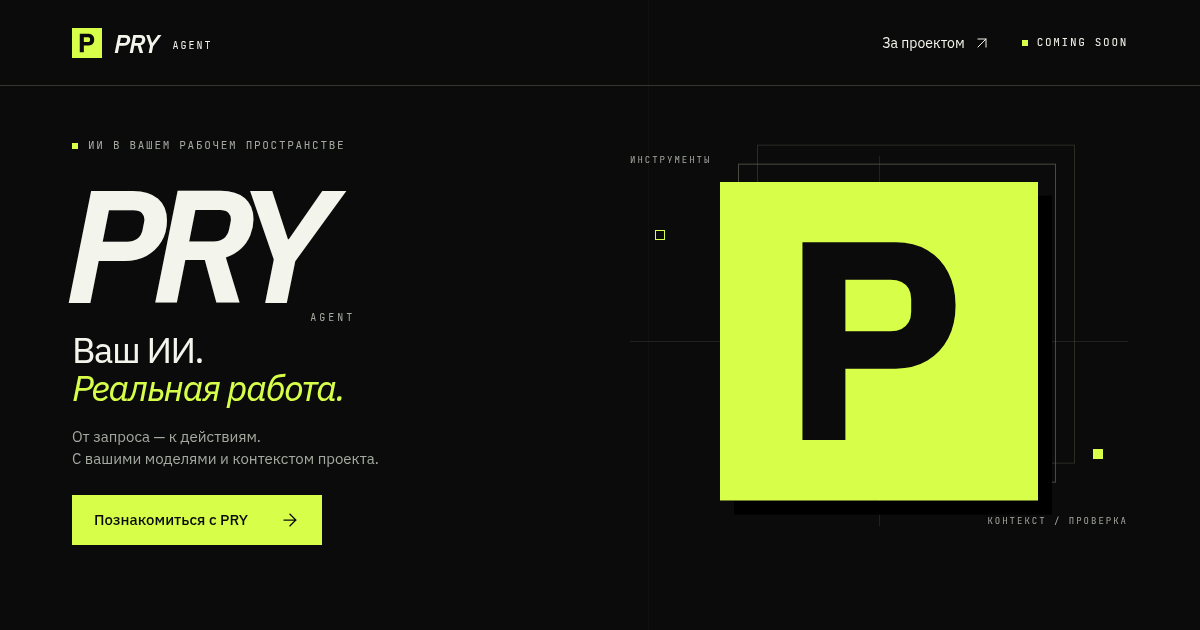
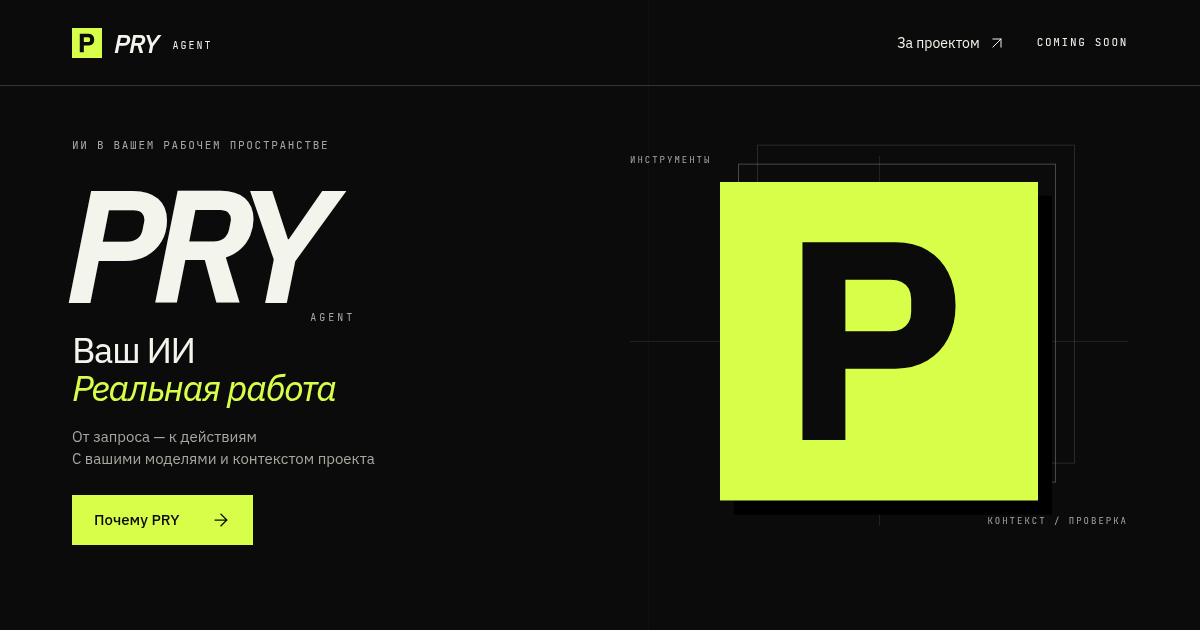
Explain why PRY helps before introducing its individual tools
Lead from the hero into four practical benefits: model choice, project memory,
independent checks and recoverable file history. Link each benefit to the product
story and keep the six-scene navigation accessible on narrow screens.
Remove display full stops and decorative point markers as requested.

Constraint: Claims must match implemented capabilities without invented comparisons
Confidence: high
Scope-risk: narrow
Tested: 69 Chromium viewport and panel layouts, wheel, touch, keyboard, links, reduced motion and no-JS fallback
Tested: Desktop and mobile visual inspection and JavaScript syntax
Not-tested: Physical mobile devices

Changed region(s): [[0.0925, 0.7841, 0.2775, 0.8746], [0.0617, 0.2111, 0.2775, 0.2413], [0.74, 0.0603, 0.8325, 0.0905]]

diff --git a/styles.css b/styles.css
@@ -19,7 +19,7 @@ svg use{fill:none;stroke:currentColor;stroke-width:1.5;stroke-linecap:square;str
 .site-header{position:fixed;inset:0 0 auto;z-index:40;height:86px;padding:0 var(--pad);display:flex;align-items:center;justify-content:space-between;border-bottom:1px solid var(--line);transition:color 500ms, border-color 500ms}
 .wordmark{display:inline-flex;align-items:center;gap:12px;min-height:44px}.wordmark>span{font-size:26px;font-style:italic;font-weight:550;letter-spacing:-1px}.wordmark small{font-family:var(--mono);font-style:normal;font-size:10px;font-weight:400;letter-spacing:2px;margin-left:9px;vertical-align:middle}
 .header-right{display:flex;gap:32px;align-items:center}.header-link{display:flex;gap:9px;align-items:center;font-size:14px;min-height:44px}.header-link svg{width:16px;height:16px;transition:transform 180ms}.header-link:hover svg{transform:translate(2px,-2px)}
-.soon-tag{font:11px/1 var(--mono);letter-spacing:1.7px;display:flex;gap:9px;align-items:center;white-space:nowrap}.soon-tag i{width:6px;height:6px;background:var(--accent)}
+.soon-tag{font:11px/1 var(--mono);letter-spacing:1.7px;display:flex;gap:9px;align-items:center;white-space:nowrap}
 .icon-button{width:46px;height:46px;display:grid;place-items:center;border:1px solid var(--line);transition:background 180ms,color 180ms,border-color 180ms}.icon-button svg{width:19px;height:19px}.icon-button:hover:not(:disabled){color:var(--bg);background:var(--accent);border-color:var(--accent)}.motion-toggle{border-color:transparent}
 .scene{position:relative;min-height:100svh;overflow:hidden;background:var(--bg)}
 .enhanced main{position:fixed;inset:0}.enhanced .scene{position:absolute;inset:0;min-height:0;height:100%;visibility:hidden;pointer-events:none;overflow:auto;scrollbar-width:thin;scrollbar-color:var(--line) transparent;overscroll-behavior:contain}
@@ -27,7 +27,7 @@ svg use{fill:none;stroke:currentColor;stroke-width:1.5;stroke-linecap:square;str
 [hidden]{display:none!important}
 .scene::before{content:"";position:absolute;top:0;bottom:0;left:54%;width:1px;background:#ffffff06;pointer-events:none}
 .scene-grid{min-height:100svh;padding:118px var(--pad) 116px;display:grid;grid-template-columns:1fr 1fr;gap:clamp(36px,5vw,110px);align-items:center}.enhanced .scene-grid{min-height:100%;height:100%}
-.copy{position:relative;z-index:2;max-width:650px}.eyebrow{display:flex;align-items:center;gap:10px;font:11px/1.5 var(--mono);letter-spacing:1.7px;text-transform:uppercase;color:var(--muted);margin-bottom:34px}.tiny-square{display:inline-block;flex:0 0 auto;width:6px;height:6px;background:var(--accent)}
+.copy{position:relative;z-index:2;max-width:650px}.eyebrow{display:flex;align-items:center;gap:10px;font:11px/1.5 var(--mono);letter-spacing:1.7px;text-transform:uppercase;color:var(--muted);margin-bottom:34px}
 .hero-name{position:relative;display:table;font-size:clamp(130px,16vw,240px);font-style:italic;font-weight:650;letter-spacing:-.09em;line-height:.82;padding-right:.11em;margin-left:-.045em;margin-bottom:29px}.hero-name>span{position:absolute;right:0;bottom:2px;font:10px/1 var(--mono);letter-spacing:3px;color:var(--muted);transform:translate(18px,16px)}
 .hero-promise{font-size:clamp(30px,3.1vw,54px);font-weight:420;line-height:1.05;letter-spacing:-.04em;margin-bottom:24px}
 .description{font-size:clamp(16px,1.25vw,20px);line-height:1.6;font-weight:400;color:var(--muted);max-width:480px;text-wrap:pretty}
@@ -38,21 +38,21 @@ svg use{fill:none;stroke:currentColor;stroke-width:1.5;stroke-linecap:square;str
 .edge-note{position:absolute;bottom:128px;right:var(--pad);writing-mode:vertical-rl;font:9px/1 var(--mono);letter-spacing:2px;color:#757b6e}
 .hero-visual{perspective:1000px;isolation:isolate}.hero-axis{position:absolute;background:var(--line);opacity:.55}.axis-x{left:0;right:0;top:50%;height:1px}.axis-y{top:0;bottom:0;left:50%;width:1px}.coordinate{position:absolute;font:9px/1 var(--mono);letter-spacing:2px;color:var(--muted)}.coordinate.top{left:0;top:0}.coordinate.bottom{bottom:0;right:0}
 .engine-plane{position:absolute;width:64%;aspect-ratio:1;left:18%;top:50%;transform:translateY(-50%);border:1px solid #707765}.plane-back{transform:translate(37px,calc(-50% - 37px));opacity:.3}.plane-mid{transform:translate(18px,calc(-50% - 18px));opacity:.6}.plane-front{border:0;box-shadow:14px 14px 0 #000}.plane-front img{display:block;width:100%;height:100%}
-.orbit-square{position:absolute;border:1px solid var(--accent);width:10px;height:10px;z-index:3}.orbit-one{left:5%;top:20%}.orbit-two{right:5%;bottom:18%;background:var(--accent)}
+
 .engine-caption{position:absolute;bottom:6%;left:7%;display:flex;align-items:center;gap:10px;font:11px/1.5 var(--mono);color:var(--muted);background:var(--bg);padding:10px 12px}
-body[data-motion=on] .is-current .plane-back{animation:back-plane 7s ease-in-out infinite alternate}body[data-motion=on] .is-current .plane-mid{animation:mid-plane 7s ease-in-out infinite alternate}body[data-motion=on] .is-current .orbit-one{animation:marker-one 8s ease-in-out infinite alternate}body[data-motion=on] .is-current .orbit-two{animation:marker-two 9s ease-in-out infinite alternate}
-@keyframes back-plane{to{transform:translate(52px,calc(-50% - 52px))}}@keyframes mid-plane{to{transform:translate(27px,calc(-50% - 27px))}}@keyframes marker-one{to{transform:translateY(110px)}}@keyframes marker-two{to{transform:translateY(-90px)}}
+body[data-motion=on] .is-current .plane-back{animation:back-plane 7s ease-in-out infinite alternate}body[data-motion=on] .is-current .plane-mid{animation:mid-plane 7s ease-in-out infinite alternate}
+@keyframes back-plane{to{transform:translate(52px,calc(-50% - 52px))}}@keyframes mid-plane{to{transform:translate(27px,calc(-50% - 27px))}}
 .model-paths,.brain-lines{position:absolute;inset:10% 0 0;width:100%;height:84%;fill:none;stroke:var(--line);stroke-width:1}.signal-path{stroke:var(--accent);stroke-width:1.5;stroke-dasharray:36 380}.signal-path.second{stroke-dasharray:25 420;animation-delay:-2s!important}body[data-motion=on] .is-current .signal-path{animation:signal 8s linear infinite}@keyframes signal{to{stroke-dashoffset:-832}}
 .model-center{position:absolute;left:50%;top:52%;transform:translate(-50%,-50%);width:90px;height:90px;box-shadow:0 0 0 12px var(--bg)}.model-center img{width:100%;height:100%}
 .model-choice{position:absolute;width:38%;text-align:left;padding:14px 16px 13px;border:1px solid var(--line);background:var(--bg);font-size:clamp(21px,2.25vw,34px);font-style:italic;letter-spacing:-1px;line-height:1.1;transition:color 220ms,border-color 220ms,transform 220ms}.model-choice small{display:block;margin-bottom:11px;font:9px/1 var(--mono);letter-spacing:1.5px;color:var(--muted)}.model-choice>span{position:absolute;right:14px;bottom:16px;font-size:21px;opacity:0;transition:opacity 180ms}.model-choice:hover{border-color:var(--muted);transform:translateY(-3px)}.model-choice.selected{border-color:var(--accent);color:var(--accent)}.model-choice.selected>span{opacity:1}.model-openai{left:0;top:17%}.model-gemini{right:0;top:17%}.model-claude{left:0;bottom:17%}.model-ollama{right:0;bottom:17%}
 .model-caption{position:absolute;bottom:4%;left:0;right:0;display:flex;gap:14px;align-items:center;justify-content:center;font:11px/1.4 var(--mono)}.model-caption span:first-child{color:var(--accent)}.model-caption span:last-child{color:var(--muted)}.visual-footnote{position:absolute;bottom:-14px;left:0;right:0;text-align:center;font-size:11px;color:var(--muted)}
-.brain-lines{inset:6% 0 auto;height:84%}.small-nodes{fill:#8a9281;stroke:none}.brain-core{position:absolute;top:47%;left:50%;width:120px;height:112px;transform:translate(-50%,-50%);display:grid;align-content:center;text-align:center;background:var(--accent);color:var(--bg);box-shadow:0 0 0 13px var(--bg)}.brain-core>span{font-size:45px;line-height:1;font-weight:600;font-style:italic;letter-spacing:-3px}.brain-core>small{font:10px/1 var(--mono);letter-spacing:2px;margin-top:13px}.brain-node{position:absolute;display:flex;flex-direction:column;gap:9px;background:var(--bg);padding:9px 14px}.brain-node i{width:8px;height:8px;border:1px solid var(--accent)}.brain-node>span{font-size:18px}.brain-node>small{font:8px/1 var(--mono);color:var(--muted);letter-spacing:.7px}.node-code{left:4%;top:15%}.node-decisions{right:13%;top:12%}.node-sources{right:0;top:43%}.node-tasks{right:18%;bottom:16%}.node-history{left:0;bottom:23%}.memory-caption{position:absolute;left:0;bottom:0;color:var(--muted);font-size:12px;line-height:1.6}.memory-caption strong{font-weight:400;color:var(--ink)}
-.work-visual{height:auto;min-height:0;border:1px solid #505649;background:#11120f;box-shadow:12px 12px 0 #000;align-self:center}.workbench-header{padding:18px 20px;border-bottom:1px solid var(--line);display:flex;align-items:center;justify-content:space-between;gap:10px;font:10px/1.4 var(--mono);letter-spacing:1px}.workbench-header>span{display:flex;align-items:center;gap:8px}.workbench-header small{color:var(--muted);font-size:8px;letter-spacing:.5px}.workbench-task{padding:30px 24px;display:flex;gap:12px;align-items:center}.task-square{width:7px;height:7px;border:1px solid var(--accent)}.workbench-task small{font:9px/1 var(--mono);letter-spacing:2px;color:var(--muted)}.workbench-task p{margin-top:9px;font-size:19px;font-style:italic}.work-tabs{display:flex;border-block:1px solid var(--line)}.work-tabs button{flex:1;min-height:47px;font:10px/1 var(--mono);padding:10px 4px;border-right:1px solid var(--line);color:var(--muted);transition:background 180ms,color 180ms}.work-tabs button:last-child{border:0}.work-tabs button[aria-selected=true]{background:var(--accent);color:var(--bg)}.work-tabs button:hover:not([aria-selected=true]){color:var(--ink);background:#ffffff08}
+.brain-lines{inset:6% 0 auto;height:84%}.brain-core{position:absolute;top:47%;left:50%;width:120px;height:112px;transform:translate(-50%,-50%);display:grid;align-content:center;text-align:center;background:var(--accent);color:var(--bg);box-shadow:0 0 0 13px var(--bg)}.brain-core>span{font-size:45px;line-height:1;font-weight:600;font-style:italic;letter-spacing:-3px}.brain-core>small{font:10px/1 var(--mono);letter-spacing:2px;margin-top:13px}.brain-node{position:absolute;display:flex;flex-direction:column;gap:9px;background:var(--bg);padding:9px 14px}.brain-node>span{font-size:18px}.brain-node>small{font:8px/1 var(--mono);color:var(--muted);letter-spacing:.7px}.node-code{left:4%;top:15%}.node-decisions{right:13%;top:12%}.node-sources{right:0;top:43%}.node-tasks{right:18%;bottom:16%}.node-history{left:0;bottom:23%}.memory-caption{position:absolute;left:0;bottom:0;color:var(--muted);font-size:12px;line-height:1.6}.memory-caption strong{font-weight:400;color:var(--ink)}
+.work-visual{height:auto;min-height:0;border:1px solid #505649;background:#11120f;box-shadow:12px 12px 0 #000;align-self:center}.workbench-header{padding:18px 20px;border-bottom:1px solid var(--line);display:flex;align-items:center;justify-content:space-between;gap:10px;font:10px/1.4 var(--mono);letter-spacing:1px}.workbench-header>span{display:flex;align-items:center;gap:8px}.workbench-header small{color:var(--muted);font-size:8px;letter-spacing:.5px}.workbench-task{padding:30px 24px;display:flex;gap:12px;align-items:center}.workbench-task small{font:9px/1 var(--mono);letter-spacing:2px;color:var(--muted)}.workbench-task p{margin-top:9px;font-size:19px;font-style:italic}.work-tabs{display:flex;border-block:1px solid var(--line)}.work-tabs button{flex:1;min-height:47px;font:10px/1 var(--mono);padding:10px 4px;border-right:1px solid var(--line);color:var(--muted);transition:background 180ms,color 180ms}.work-tabs button:last-child{border:0}.work-tabs button[aria-selected=true]{background:var(--accent);color:var(--bg)}.work-tabs button:hover:not([aria-selected=true]){color:var(--ink);background:#ffffff08}
 .work-panel{height:228px;padding:23px 22px}.panel-label{font-size:13px;color:var(--muted);margin-bottom:22px}.file-row{padding:13px 0;display:grid;grid-template-columns:20px 1fr auto;gap:10px;border-top:1px solid var(--line);font-size:12px;align-items:center}.file-row>span:first-child{font:9px/1 var(--mono);color:var(--muted)}.file-row>span:last-child{font-size:10px;color:var(--muted)}.file-row strong{font-weight:400}.diff-title{display:flex;justify-content:space-between;font:10px/1.5 var(--mono);padding-bottom:12px;border-bottom:1px solid var(--line)}.diff-title span:last-child{font-size:8px;color:var(--accent)}.diff{font:11px/1.8 var(--mono);margin:14px 0 0;white-space:pre-wrap;overflow-wrap:anywhere;color:var(--accent)}.diff-muted{color:var(--muted)}.check-line{display:flex;align-items:center;gap:12px;margin:16px 0;font-size:13px}.check-line svg{width:18px;height:18px;color:var(--accent)}.check-caption{font-size:12px;line-height:1.5;color:var(--muted);margin-top:20px}.workbench-footer{display:flex;gap:9px;align-items:center;padding:16px 22px;border-top:1px solid var(--line);font:9px/1.5 var(--mono);color:var(--muted)}
 .soon-scene{background:var(--accent);color:var(--bg)}.soon-scene::before{display:none}.soon-copy{position:relative;z-index:2;min-height:100svh;padding:120px var(--pad) 110px;display:flex;flex-direction:column;align-items:flex-start;justify-content:center}.enhanced .soon-copy{height:100%;min-height:0}.soon-copy .eyebrow{color:#495425;margin-bottom:26px}.coming-title{font-size:clamp(90px,12.5vw,210px);font-weight:550;font-style:italic;letter-spacing:-.075em;line-height:.83;padding-right:.1em}.coming-title>span{margin-left:15vw}.soon-description{font-size:clamp(18px,1.8vw,28px);line-height:1.35;font-weight:400;margin-top:36px}.dark{background:var(--bg);color:var(--accent);margin-top:28px}.dark:hover{box-shadow:5px 5px 0 #879e32}.soon-mark{position:absolute;right:-3%;top:50%;transform:translateY(-50%);font-style:italic;font-size:min(70vw,95vh);font-weight:600;line-height:1;color:transparent;-webkit-text-stroke:1px #647a23;opacity:.5;pointer-events:none}.soon-grid{position:absolute;inset:0;background-image:linear-gradient(#18200812 1px,transparent 1px),linear-gradient(90deg,#18200812 1px,transparent 1px);background-size:110px 110px}.soon-signature{position:absolute;right:var(--pad);bottom:128px;font:10px/1 var(--mono);letter-spacing:2px;writing-mode:vertical-rl}
 .site-footer{position:fixed;z-index:40;bottom:0;left:0;right:0;min-height:94px;padding:20px var(--pad) 26px;display:grid;grid-template-columns:1fr auto 1fr;align-items:center;gap:26px;transition:color 400ms}.scroll-hint{display:flex;align-items:center;gap:13px;color:var(--muted);font-size:11px}.hint-line{position:relative;display:block;width:20px;height:28px;border-left:1px solid var(--line)}.hint-line::after{content:"";position:absolute;left:-2px;top:3px;width:3px;height:8px;background:var(--accent)}body[data-motion=on] .hint-line::after{animation:hint 2s ease-in-out infinite}@keyframes hint{50%{transform:translateY(12px);opacity:.4}}
 .scene-nav{display:flex;gap:10px}.scene-nav a{width:44px;min-height:46px;display:flex;flex-direction:column;justify-content:center;gap:10px;color:#9b9f94;font:10px/1 var(--mono);transition:color 180ms}.scene-nav i{height:2px;width:100%;background:var(--line);position:relative}.scene-nav i::after{content:"";position:absolute;inset:0;background:var(--accent);transform:scaleX(0);transform-origin:left;transition:transform 400ms var(--ease)}.scene-nav a.current{color:var(--accent)}.scene-nav a.current i::after{transform:scaleX(1)}.scene-nav a:hover{color:var(--ink)}.scene-arrows{display:flex;gap:8px;justify-content:flex-end}.previous svg{transform:rotate(180deg)}
-body[data-scene=soon]{--ink:#10120a;--muted:#495425;--line:#798d36}.site-header,.site-footer{color:var(--ink)}body[data-scene=soon] .soon-tag i,body[data-scene=soon] .scene-nav i::after,body[data-scene=soon] .hint-line::after{background:#10120a}body[data-scene=soon] .scene-nav a{color:#465020}body[data-scene=soon] .scene-nav a.current{color:#10120a}body[data-scene=soon] .icon-button:hover:not(:disabled){background:#10120a;color:var(--accent);border-color:#10120a}body[data-scene=soon] :focus-visible{outline-color:#10120a}
+body[data-scene=soon]{--ink:#10120a;--muted:#495425;--line:#798d36}.site-header,.site-footer{color:var(--ink)}body[data-scene=soon] .scene-nav i::after,body[data-scene=soon] .hint-line::after{background:#10120a}body[data-scene=soon] .scene-nav a{color:#465020}body[data-scene=soon] .scene-nav a.current{color:#10120a}body[data-scene=soon] .icon-button:hover:not(:disabled){background:#10120a;color:var(--accent);border-color:#10120a}body[data-scene=soon] :focus-visible{outline-color:#10120a}
 @media(min-width:1700px){.scene-grid{gap:120px}.hero-visual{max-width:620px}.work-visual{max-width:620px}.visual-topline{font-size:11px}.workbench-header small{font-size:10px}.work-tabs button{font-size:12px}.work-panel{height:280px}.file-row{font-size:15px;padding:17px 0}.file-row>span:last-child{font-size:12px}.panel-label{font-size:15px}.diff{font-size:14px}.check-line{font-size:15px}}
 @media(min-width:761px) and (max-height:760px){.scene-grid{padding-top:100px;padding-bottom:94px}.hero-name{font-size:160px;margin-bottom:22px}.hero .eyebrow{margin-bottom:24px}.hero-promise{font-size:36px;margin-bottom:19px}.hero .description{font-size:15px;line-height:1.5}.hero .button{margin-top:24px;min-height:48px}.section-title{font-size:60px;margin-bottom:25px}.eyebrow{margin-bottom:24px}.side-caption{margin-top:22px;padding-top:18px}.visual{max-height:410px;min-height:290px}.workbench-task{padding:22px}.work-panel{height:190px}.workbench-header{padding:14px 18px}.coming-title{font-size:135px}.soon-copy{padding-top:105px;padding-bottom:95px}.soon-description{margin-top:26px}}
 @media(max-width:1100px){.header-right{gap:22px}.scene-grid{gap:30px}.visual{min-height:300px}.hero-name{font-size:16vw}.hero-promise{font-size:36px}.section-title{font-size:56px}.description{font-size:16px}.side-caption{margin-top:26px;padding-top:20px;font-size:13px}.eyebrow{font-size:9px;letter-spacing:1.3px}.workbench-header{padding:14px 12px;font-size:8px}.workbench-header small{font-size:7px}.workbench-task{padding:24px 16px}.workbench-task p{font-size:17px}.file-row{grid-template-columns:16px 1fr}.file-row>span:last-child{display:none}.work-tabs button{font-size:9px}.scroll-hint{font-size:10px}.edge-note{display:none}.brain-node>span{font-size:15px}.brain-node>small{font-size:7px}.brain-core{width:94px;height:90px}.brain-core>span{font-size:37px}}
@@ -76,3 +76,47 @@ body[data-scene=soon]{--ink:#10120a;--muted:#495425;--line:#798d36}.site-header,
 }
 body[data-motion=off] *,body[data-motion=off] *::before,body[data-motion=off] *::after{animation:none!important;transition:none!important}
 body[data-motion=off] .signal-path{stroke-dasharray:none}
+
+.benefits{list-style:none;padding:0;margin:0;width:100%}
+.benefit{border-top:1px solid var(--line)}
+.benefit:last-child{border-bottom:1px solid var(--line)}
+.benefit a{display:grid;grid-template-columns:28px 1fr 18px;gap:18px;padding:24px 0;align-items:start}
+.benefit-number{font:11px/1.5 var(--mono);color:var(--accent);padding-top:7px}
+.benefit h3{margin:0 0 8px;font-size:clamp(21px,1.9vw,30px);font-style:italic;font-weight:450;line-height:1.15;letter-spacing:-.035em}
+.benefit p{margin:0;max-width:440px;color:var(--muted);font-size:14px;line-height:1.5}
+.benefit svg{width:18px;height:18px;margin-top:7px;color:var(--muted);transition:transform 180ms,color 180ms}
+.benefit a:hover h3,.benefit a:hover svg{color:var(--accent)}
+.benefit a:hover svg{transform:translate(2px,-2px)}
+@media(min-width:761px) and (max-height:760px){.benefit a{padding:16px 0}.benefit h3{font-size:23px}.benefit p{font-size:13px}}
+@media(max-width:1100px){.why-scene .section-title{font-size:49px}.benefit a{gap:12px;grid-template-columns:22px 1fr 16px}.benefit h3{font-size:23px}}
+@media(max-width:760px){
+  .why-scene .scene-grid{grid-template-rows:auto auto;gap:24px}
+  .why-scene .section-title{font-size:40px}
+  .benefits{max-width:520px;align-self:start}
+  .benefit a{padding:17px 0;grid-template-columns:20px 1fr 16px;gap:10px}
+  .benefit h3{font-size:21px;margin-bottom:6px}
+  .benefit p{font-size:13px;line-height:1.4}
+  .benefit-number{font-size:9px;padding-top:4px}
+  .scene-nav{overflow-x:auto;scrollbar-width:none;min-width:0;max-width:none}
+  .scene-nav a{flex-shrink:0}
+}
+@media(max-width:760px) and (max-height:740px){
+  .why-scene .scene-grid{gap:18px}
+  .why-scene .section-title{font-size:34px;margin-bottom:0}
+  .why-scene .description{display:none}
+  .benefit a{padding:12px 0}
+  .benefit h3{font-size:19px}
+  .benefit p{font-size:12px}
+}
+@media(max-width:360px){.why-scene .section-title{font-size:33px}.benefit h3{font-size:18px}}
+@media(max-height:540px) and (min-width:761px){
+  .why-scene .scene-grid{grid-template-columns:.8fr 1.2fr;gap:28px}
+  .why-scene .section-title{font-size:34px;margin:0}
+  .why-scene .description{display:none}
+  .benefits{display:grid;grid-template-columns:repeat(2,minmax(0,1fr));gap:12px 18px}
+  .benefit a{display:block;padding:10px 0}
+  .benefit-number,.benefit svg{display:none}
+  .benefit h3{font-size:17px;margin-bottom:6px}
+  .benefit p{font-size:12px;line-height:1.4}
+  .benefit:last-child{border-bottom:0}
+}

diff --git a/index.html b/index.html
@@ -4,23 +4,23 @@
   <meta charset="utf-8">
   <meta name="viewport" content="width=device-width, initial-scale=1">
   <meta name="theme-color" content="#0b0b0b">
-  <meta name="description" content="PRY Agent — ваши модели, память проекта и работа, которую видно. Знакомьтесь с новым AI-пространством. Coming soon.">
-  <meta property="og:title" content="PRY Agent — ваш ИИ. Реальная работа.">
-  <meta property="og:description" content="Выбирайте модели. Сохраняйте контекст. Следите за действиями и проверяйте результат. COMING SOON.">
+  <meta name="description" content="PRY Agent — ваши модели, память проекта и работа, которую видно — Coming soon">
+  <meta property="og:title" content="PRY Agent — ваш ИИ, реальная работа">
+  <meta property="og:description" content="Выбирайте модели, сохраняйте контекст, следите за действиями и проверяйте результат — COMING SOON">
   <meta property="og:type" content="website">
   <meta property="og:locale" content="ru_RU">
   <meta property="og:url" content="https://pry-code.github.io/">
-  <meta property="og:image" content="https://pry-code.github.io/assets/social.png">
+  <meta property="og:image" content="https://pry-code.github.io/assets/social.png?v=2">
   <meta property="og:image:width" content="1200">
   <meta property="og:image:height" content="630">
-  <meta property="og:image:alt" content="PRY Agent. Ваш ИИ. Реальная работа. Coming soon.">
+  <meta property="og:image:alt" content="PRY Agent — ваш ИИ, реальная работа — Coming soon">
   <meta name="twitter:card" content="summary_large_image">
-  <title>PRY Agent — ваш ИИ. Реальная работа.</title>
+  <title>PRY Agent — ваш ИИ, реальная работа</title>
   <link rel="canonical" href="https://pry-code.github.io/">
   <link rel="icon" href="assets/mark.svg" type="image/svg+xml">
   <link rel="preload" href="assets/fonts/ibm-plex-sans-cyrillic-wght-italic.woff2" as="font" type="font/woff2" crossorigin>
-  <link rel="stylesheet" href="styles.css">
-  <script src="app.js" defer></script>
+  <link rel="stylesheet" href="styles.css?v=2">
+  <script src="app.js?v=2" defer></script>
 </head>
 <body>
   <a class="skip-link" href="#presentation">К содержимому</a>
@@ -38,7 +38,7 @@
     </a>
     <div class="header-right">
       <a class="header-link" href="https://github.com/PRY-Code" target="_blank" rel="noopener noreferrer">За проектом <svg><use href="#arrow-up-right"/></svg></a>
-      <span class="soon-tag"><i></i> COMING SOON</span>
+      <span class="soon-tag">COMING SOON</span>
       <button class="motion-toggle icon-button" type="button" aria-label="Выключить анимацию" aria-pressed="false" title="Выключить анимацию"><svg><use href="#pause"/></svg></button>
     </div>
   </header>
@@ -47,31 +47,46 @@
     <section class="scene hero is-current" id="start" aria-labelledby="hero-title" data-name="Начало">
       <div class="scene-grid">
         <div class="copy hero-copy">
-          <p class="eyebrow reveal"><span class="tiny-square"></span> ИИ в вашем рабочем пространстве</p>
+          <p class="eyebrow reveal">ИИ в вашем рабочем пространстве</p>
           <h1 class="hero-name reveal" id="hero-title" tabindex="-1">PRY<span>AGENT</span></h1>
-          <h2 class="hero-promise reveal">Ваш ИИ.<br><em>Реальная работа.</em></h2>
-          <p class="description reveal">От запроса — к действиям.<br>С вашими моделями и контекстом проекта.</p>
-          <a class="button primary reveal" href="#models" data-scene-link="1">Познакомиться с PRY <svg><use href="#arrow"/></svg></a>
+          <h2 class="hero-promise reveal">Ваш ИИ<br><em>Реальная работа</em></h2>
+          <p class="description reveal">От запроса — к действиям<br>С вашими моделями и контекстом проекта</p>
+          <a class="button primary reveal" href="#why" data-scene-link="1">Почему PRY <svg><use href="#arrow"/></svg></a>
         </div>
         <div class="visual hero-visual" role="img" aria-label="Знак PRY объединяет инструменты, контекст и проверку">
           <div class="hero-axis axis-x"></div><div class="hero-axis axis-y"></div>
           <span class="coordinate top">ИНСТРУМЕНТЫ</span><span class="coordinate bottom">КОНТЕКСТ / ПРОВЕРКА</span>
           <div class="engine-plane plane-back"></div><div class="engine-plane plane-mid"></div>
           <div class="engine-plane plane-front"><img src="assets/mark.svg" alt="" width="320" height="320"></div>
-          <div class="orbit-square orbit-one"></div><div class="orbit-square orbit-two"></div>
-          <div class="engine-caption"><span class="tiny-square"></span> Одна задача. Весь контекст.</div>
+          <div class="engine-caption">Одна задача — весь контекст</div>
         </div>
       </div>
-      <div class="edge-note">МЕНЬШЕ ПЕРЕКЛЮЧЕНИЙ. БОЛЬШЕ РАБОТЫ.</div>
+      <div class="edge-note">МЕНЬШЕ ПЕРЕКЛЮЧЕНИЙ — БОЛЬШЕ РАБОТЫ</div>
+    </section>
+
+    <section class="scene why-scene" id="why" aria-labelledby="why-title" data-name="Почему PRY">
+      <div class="scene-grid">
+        <div class="copy">
+          <p class="eyebrow reveal">01 / Почему PRY</p>
+          <h2 class="section-title reveal" id="why-title" tabindex="-1">Меньше рутины<br><em>Больше контроля</em></h2>
+          <p class="description reveal">Вы сосредоточены на задаче<br>PRY связывает модели, контекст и проверку в одном пространстве</p>
+        </div>
+        <ol class="benefits" aria-label="Преимущества PRY">
+          <li class="benefit reveal"><a href="#models" data-scene-link="2"><span class="benefit-number" aria-hidden="true">01</span><div><h3>Модель выбираете вы</h3><p>Облачный API или локальная модель — под вашу задачу и бюджет</p></div><svg aria-hidden="true"><use href="#arrow-up-right"/></svg></a></li>
+          <li class="benefit reveal"><a href="#memory" data-scene-link="3"><span class="benefit-number" aria-hidden="true">02</span><div><h3>Меньше объяснений заново</h3><p>Память проекта связывает код и решения, автокомпакт сохраняет текущую задачу</p></div><svg aria-hidden="true"><use href="#arrow-up-right"/></svg></a></li>
+          <li class="benefit reveal"><a href="#work" data-scene-link="4"><span class="benefit-number" aria-hidden="true">03</span><div><h3>У «готово» есть основания</h3><p>Заданные критерии проходят независимую проверку — вы видите её результаты</p></div><svg aria-hidden="true"><use href="#arrow-up-right"/></svg></a></li>
+          <li class="benefit reveal"><a href="#work" data-scene-link="4"><span class="benefit-number" aria-hidden="true">04</span><div><h3>Изменения под контролем</h3><p>Действия видны в диалоге, версии файлов — в Git-истории с восстановлением</p></div><svg aria-hidden="true"><use href="#arrow-up-right"/></svg></a></li>
+        </ol>
+      </div>
     </section>
 
     <section class="scene models-scene" id="models" aria-labelledby="models-title" data-name="Модели">
       <div class="scene-grid">
         <div class="copy">
-          <p class="eyebrow reveal">01 / Свобода выбора</p>
-          <h2 class="section-title reveal" id="models-title" tabindex="-1">Один агент.<br><em>Ваша модель.</em></h2>
-          <p class="description reveal">Облачный API или локальная модель.<br>Выбирайте то, что подходит вашей задаче.</p>
-          <p class="side-caption reveal">Привычное пространство.<br>Разные возможности внутри.</p>
+          <p class="eyebrow reveal">02 / Свобода выбора</p>
+          <h2 class="section-title reveal" id="models-title" tabindex="-1">Один агент<br><em>Ваша модель</em></h2>
+          <p class="description reveal">Облачный API или локальная модель<br>Выбирайте то, что подходит вашей задаче</p>
+          <p class="side-caption reveal">Привычное пространство<br>Разные возможности внутри</p>
         </div>
         <div class="visual model-visual">
           <div class="visual-topline"><span>МОДЕЛИ / ПОДКЛЮЧЕНИЯ</span><span>ВЫБОР ЗА ВАМИ</span></div>
@@ -82,7 +97,7 @@
           <button class="model-choice model-claude" type="button" data-model="Claude" data-model-note="Облачный API" aria-pressed="false"><small>ОБЛАКО</small>Claude<span>↗</span></button>
           <button class="model-choice model-ollama" type="button" data-model="Ollama" data-model-note="Локальная модель" aria-pressed="false"><small>ЛОКАЛЬНО</small>Ollama<span>↗</span></button>
           <p class="model-caption" aria-live="polite"><span id="model-name">Gemini</span><span id="model-note">Облачный API</span></p>
-          <p class="visual-footnote">Нажмите на модель, чтобы изменить схему.</p>
+          <p class="visual-footnote">Нажмите на модель, чтобы изменить схему</p>
         </div>
       </div>
     </section>
@@ -90,10 +105,10 @@
     <section class="scene memory-scene" id="memory" aria-labelledby="memory-title" data-name="Память">
       <div class="scene-grid">
         <div class="copy">
-          <p class="eyebrow reveal">02 / Не начинать с нуля</p>
-          <h2 class="section-title reveal" id="memory-title" tabindex="-1">Память<br><em>вашего проекта.</em></h2>
-          <p class="description reveal">Файлы, решения и история задач —<br>в контексте одного проекта.</p>
-          <p class="side-caption reveal">Возвращайтесь к работе.<br>Продолжайте с нужного места.</p>
+          <p class="eyebrow reveal">03 / Не начинать с нуля</p>
+          <h2 class="section-title reveal" id="memory-title" tabindex="-1">Память<br><em>вашего проекта</em></h2>
+          <p class="description reveal">Файлы, решения и история задач —<br>в контексте одного проекта</p>
+          <p class="side-caption reveal">Возвращайтесь к работе<br>Продолжайте с нужного места</p>
         </div>
         <div class="visual memory-visual" role="img" aria-label="Карта памяти связывает проект с кодом, решениями, задачами и источниками">
           <div class="visual-topline"><span>КАРТА ПРОЕКТА</span><span>СВЯЗИ И КОНТЕКСТ</span></div>
@@ -101,15 +116,14 @@
             <path d="M300 230 112 82M300 230 450 66M300 230 518 232M300 230 430 390M300 230 92 357M112 82 450 66M450 66 518 232M518 232 430 390M430 390 92 357M92 357 112 82"/>
             <path class="signal-path" d="M92 357 300 230 450 66"/>
             <path class="signal-path second" d="M112 82 300 230 430 390"/>
-            <g class="small-nodes"><rect x="193" y="130" width="6" height="6"/><rect x="370" y="147" width="6" height="6"/><rect x="410" y="224" width="6" height="6"/><rect x="230" y="344" width="6" height="6"/><rect x="100" y="206" width="6" height="6"/></g>
           </svg>
           <div class="brain-core"><span>PRY</span><small>ПРОЕКТ</small></div>
-          <div class="brain-node node-code"><i></i><span>Код</span><small>ФАЙЛЫ И СИМВОЛЫ</small></div>
-          <div class="brain-node node-decisions"><i></i><span>Решения</span></div>
-          <div class="brain-node node-sources"><i></i><span>Источники</span></div>
-          <div class="brain-node node-tasks"><i></i><span>Задачи</span></div>
-          <div class="brain-node node-history"><i></i><span>История</span></div>
-          <p class="memory-caption">Контекст связан.<br><strong>Следующий шаг — осмысленнее.</strong></p>
+          <div class="brain-node node-code"><span>Код</span><small>ФАЙЛЫ И СИМВОЛЫ</small></div>
+          <div class="brain-node node-decisions"><span>Решения</span></div>
+          <div class="brain-node node-sources"><span>Источники</span></div>
+          <div class="brain-node node-tasks"><span>Задачи</span></div>
+          <div class="brain-node node-history"><span>История</span></div>
+          <p class="memory-caption">Контекст связан<br><strong>Следующий шаг — осмысленнее</strong></p>
         </div>
       </div>
     </section>
@@ -117,14 +131,14 @@
     <section class="scene work-scene" id="work" aria-labelledby="work-title" data-name="Контроль">
       <div class="scene-grid">
         <div class="copy">
-          <p class="eyebrow reveal">03 / Работа на виду</p>
-          <h2 class="section-title reveal" id="work-title" tabindex="-1">Видно каждый<br><em>важный шаг.</em></h2>
-          <p class="description reveal">Действия агента, изменения в файлах<br>и проверка результата — перед вами.</p>
-          <p class="side-caption reveal">«Готово» должно<br>опираться на подтверждение.</p>
+          <p class="eyebrow reveal">04 / Работа на виду</p>
+          <h2 class="section-title reveal" id="work-title" tabindex="-1">Видно каждый<br><em>важный шаг</em></h2>
+          <p class="description reveal">Действия агента, изменения в файлах<br>и проверка результата — перед вами</p>
+          <p class="side-caption reveal">«Готово» должно<br>опираться на подтверждение</p>
         </div>
         <div class="visual work-visual">
           <div class="workbench-header"><span><img src="assets/mark.svg" alt="" width="19" height="19"> PRY / WORKSPACE</span><small>ПРИМЕР СЦЕНАРИЯ</small></div>
-          <div class="workbench-task"><span class="task-square"></span><div><small>ЗАДАЧА</small><p>Добавить обработку ошибок</p></div></div>
+          <div class="workbench-task"><div><small>ЗАДАЧА</small><p>Добавить обработку ошибок</p></div></div>
           <div class="work-tabs" role="tablist" aria-label="Этапы работы агента">
             <button type="button" id="tab-context" role="tab" aria-selected="true" aria-controls="panel-context" data-work-tab="context">01 Контекст</button>
             <button type="button" id="tab-changes" role="tab" aria-selected="false" aria-controls="panel-changes" data-work-tab="changes" tabindex="-1">02 Изменения</button>
@@ -148,9 +162,9 @@
             <p class="panel-label">У результата есть основания</p>
             <div class="check-line"><svg><use href="#check"/></svg><span>Проверка синтаксиса</span></div>
             <div class="check-line"><svg><use href="#check"/></svg><span>Проверка требований</span></div>
-            <p class="check-caption">Статус опирается на проверки.<br>Вы видите, что подтверждено.</p>
+            <p class="check-caption">Статус опирается на проверки<br>Вы видите, что подтверждено</p>
           </div>
-          <div class="workbench-footer"><span class="tiny-square"></span><span>Один диалог — весь ход работы</span></div>
+          <div class="workbench-footer"><span>Один диалог — весь ход работы</span></div>
         </div>
       </div>
     </section>
@@ -159,12 +173,12 @@
       <div class="soon-grid" aria-hidden="true"></div>
       <div class="soon-copy">
         <p class="eyebrow reveal">PRY AGENT / СКОРО</p>
-        <h2 id="soon-title" tabindex="-1" class="coming-title reveal">COMING<br><span>SOON.</span></h2>
-        <p class="soon-description reveal">Ваши модели.<br>Новые возможности для работы.</p>
+        <h2 id="soon-title" tabindex="-1" class="coming-title reveal">COMING<br><span>SOON</span></h2>
+        <p class="soon-description reveal">Ваши модели<br>Новые возможности для работы</p>
         <a class="button dark reveal" href="https://github.com/PRY-Code" target="_blank" rel="noopener noreferrer">Следить за проектом <svg><use href="#arrow-up-right"/></svg></a>
       </div>
       <div class="soon-mark" aria-hidden="true">P</div>
-      <span class="soon-signature">СДЕЛАНО ДЛЯ РЕАЛЬНЫХ ЗАДАЧ.</span>
+      <span class="soon-signature">СДЕЛАНО ДЛЯ РЕАЛЬНЫХ ЗАДАЧ</span>
     </section>
   </main>
 
@@ -172,10 +186,11 @@
     <div class="scroll-hint"><span class="hint-line"></span><span>Листайте, чтобы продолжить</span></div>
     <nav class="scene-nav" aria-label="Разделы лендинга">
       <a href="#start" data-scene-link="0" class="current" aria-current="step" aria-label="01 — Начало"><span>01</span><i></i></a>
-      <a href="#models" data-scene-link="1" aria-label="02 — Модели"><span>02</span><i></i></a>
-      <a href="#memory" data-scene-link="2" aria-label="03 — Память проекта"><span>03</span><i></i></a>
-      <a href="#work" data-scene-link="3" aria-label="04 — Контроль действий"><span>04</span><i></i></a>
-      <a href="#soon" data-scene-link="4" aria-label="05 — Скоро"><span>05</span><i></i></a>
+      <a href="#why" data-scene-link="1" aria-label="02 — Почему PRY"><span>02</span><i></i></a>
+      <a href="#models" data-scene-link="2" aria-label="03 — Модели"><span>03</span><i></i></a>
+      <a href="#memory" data-scene-link="3" aria-label="04 — Память проекта"><span>04</span><i></i></a>
+      <a href="#work" data-scene-link="4" aria-label="05 — Контроль действий"><span>05</span><i></i></a>
+      <a href="#soon" data-scene-link="5" aria-label="06 — Скоро"><span>06</span><i></i></a>
     </nav>
     <div class="scene-arrows"><button class="icon-button previous" type="button" aria-label="Предыдущий раздел"><svg><use href="#arrow"/></svg></button><button class="icon-button next" type="button" aria-label="Следующий раздел"><svg><use href="#arrow"/></svg></button></div>
   </footer>

diff --git a/app.js b/app.js
@@ -44,6 +44,9 @@
     });
     previous.disabled = index === 0;
     next.disabled = index === scenes.length - 1;
+    document.querySelector('.scene-nav a.current').scrollIntoView({
+      block: 'nearest', inline: 'nearest', behavior: motion() ? 'smooth' : 'auto'
+    });
     status.textContent = `Раздел ${index + 1} из ${scenes.length}: ${scenes[index].dataset.name}`;
   }
 

diff --git a/tests/check_site.py b/tests/check_site.py
@@ -33,7 +33,7 @@ def check_bounds(page):
       const footer = document.querySelector('.site-footer').getBoundingClientRect();
       const header = document.querySelector('.site-header').getBoundingClientRect();
       const copy = scene.querySelector('.copy, .soon-copy');
-      const targets = [...copy.querySelectorAll('h1,h2,.description,.soon-description,.button'), ...scene.querySelectorAll('.visual,.work-visual p,.workbench-footer')]
+      const targets = [...copy.querySelectorAll('h1,h2,.description,.soon-description,.button'), ...scene.querySelectorAll('.visual,.work-visual p,.workbench-footer,.benefit a')]
         .filter(el => el.checkVisibility());
       return {
         documentOverflow: document.documentElement.scrollWidth > innerWidth + 1,
@@ -67,11 +67,15 @@ def main():
         assert selected(page) == "start"
         page.screenshot(path=str(OUTPUT / "desktop-start.png"))
         page.mouse.wheel(0, 600)
-        settled(page, "models")
+        settled(page, "why")
         page.mouse.wheel(0, -600)
         settled(page, "start")
-        page.get_by_role("link", name="Познакомиться с PRY").click()
+        page.get_by_role("link", name="Почему PRY", exact=True).click()
+        settled(page, "why")
+        assert page.locator(".benefit").count() == 4
+        page.locator(".benefit a").first.click()
         settled(page, "models")
+        checks["why_pry_and_benefit_links"] = True
         page.locator("[data-model='Ollama']").click()
         assert page.locator("#model-note").inner_text() == "Локальная модель"
         checks["model_selector"] = True
@@ -95,7 +99,7 @@ def main():
         page.locator("#work-title").focus()
         page.keyboard.press("End")
         settled(page, "soon")
-        assert page.get_by_role("heading", name="COMING SOON.").is_visible()
+        assert page.get_by_role("heading", name="COMING SOON").is_visible()
         assert page.locator(".next").is_disabled()
         page.screenshot(path=str(OUTPUT / "desktop-soon.png"))
         page.keyboard.press("Home")
@@ -108,7 +112,7 @@ def main():
         layouts = []
         for width, height in sizes:
             page.set_viewport_size({"width": width, "height": height})
-            for index, name in enumerate(["start","models","memory","work","soon"]):
+            for index, name in enumerate(["start","why","models","memory","work","soon"]):
                 page.locator(f".scene-nav [data-scene-link='{index}']").click()
                 page.wait_for_timeout(80)
                 bounds = check_bounds(page)
@@ -135,12 +139,12 @@ def main():
         client.send("Input.dispatchTouchEvent", {"type":"touchMove","touchPoints":[{"x":200,"y":350}]})
         client.send("Input.dispatchTouchEvent", {"type":"touchEnd","touchPoints":[]})
         touch.wait_for_timeout(100)
-        assert selected(touch) == "models"
+        assert selected(touch) == "why"
         checks["touch_swipe"] = True
         plain = browser.new_page(java_script_enabled=False, viewport={"width":390,"height":844})
         plain.goto(base)
-        assert plain.locator(".scene").count() == 5
-        assert all(plain.locator(".scene").nth(i).is_visible() for i in range(5))
+        assert plain.locator(".scene").count() == 6
+        assert all(plain.locator(".scene").nth(i).is_visible() for i in range(6))
         plain.locator("#soon").scroll_into_view_if_needed()
         assert plain.get_by_role("link", name="Следить за проектом").is_visible()
         checks["readable_without_javascript"] = True

diff --git a/DESIGN.md b/DESIGN.md
@@ -5,7 +5,7 @@ Status: Active · 2026-09-08
 Visual thesis: a dark editorial film poster with sharp technical geometry, generous
 space, italic type and one acid-chartreuse accent, drawn from PRY's workbench.
 
-Content plan: product promise → model choice → project memory → visible work and
+Content plan: product promise → Why PRY and practical benefits → model choice → project memory → visible work and
 verification → COMING SOON and the public organization link. All explanatory copy
 is Russian; product/provider names and the requested COMING SOON label are retained.
 
@@ -38,6 +38,8 @@ No invented release date, mailing-list endpoint, performance claim or download.
 - Accent #d7ff4a; square corners and fine structural lines.
 - IBM Plex Sans for copy and italic display, JetBrains Mono for labels.
 - One dominant diagram per scene, no decorative card grid or stock gradients.
+- Display copy omits full stops and decorative point markers. The Why PRY scene
+  uses four numbered benefit rows linked to the relevant product details.
 - Transitions use transforms/opacity and modest clip reveals; ambient motion can
   be disabled, and reduced-motion preference produces immediate scene changes.
 
